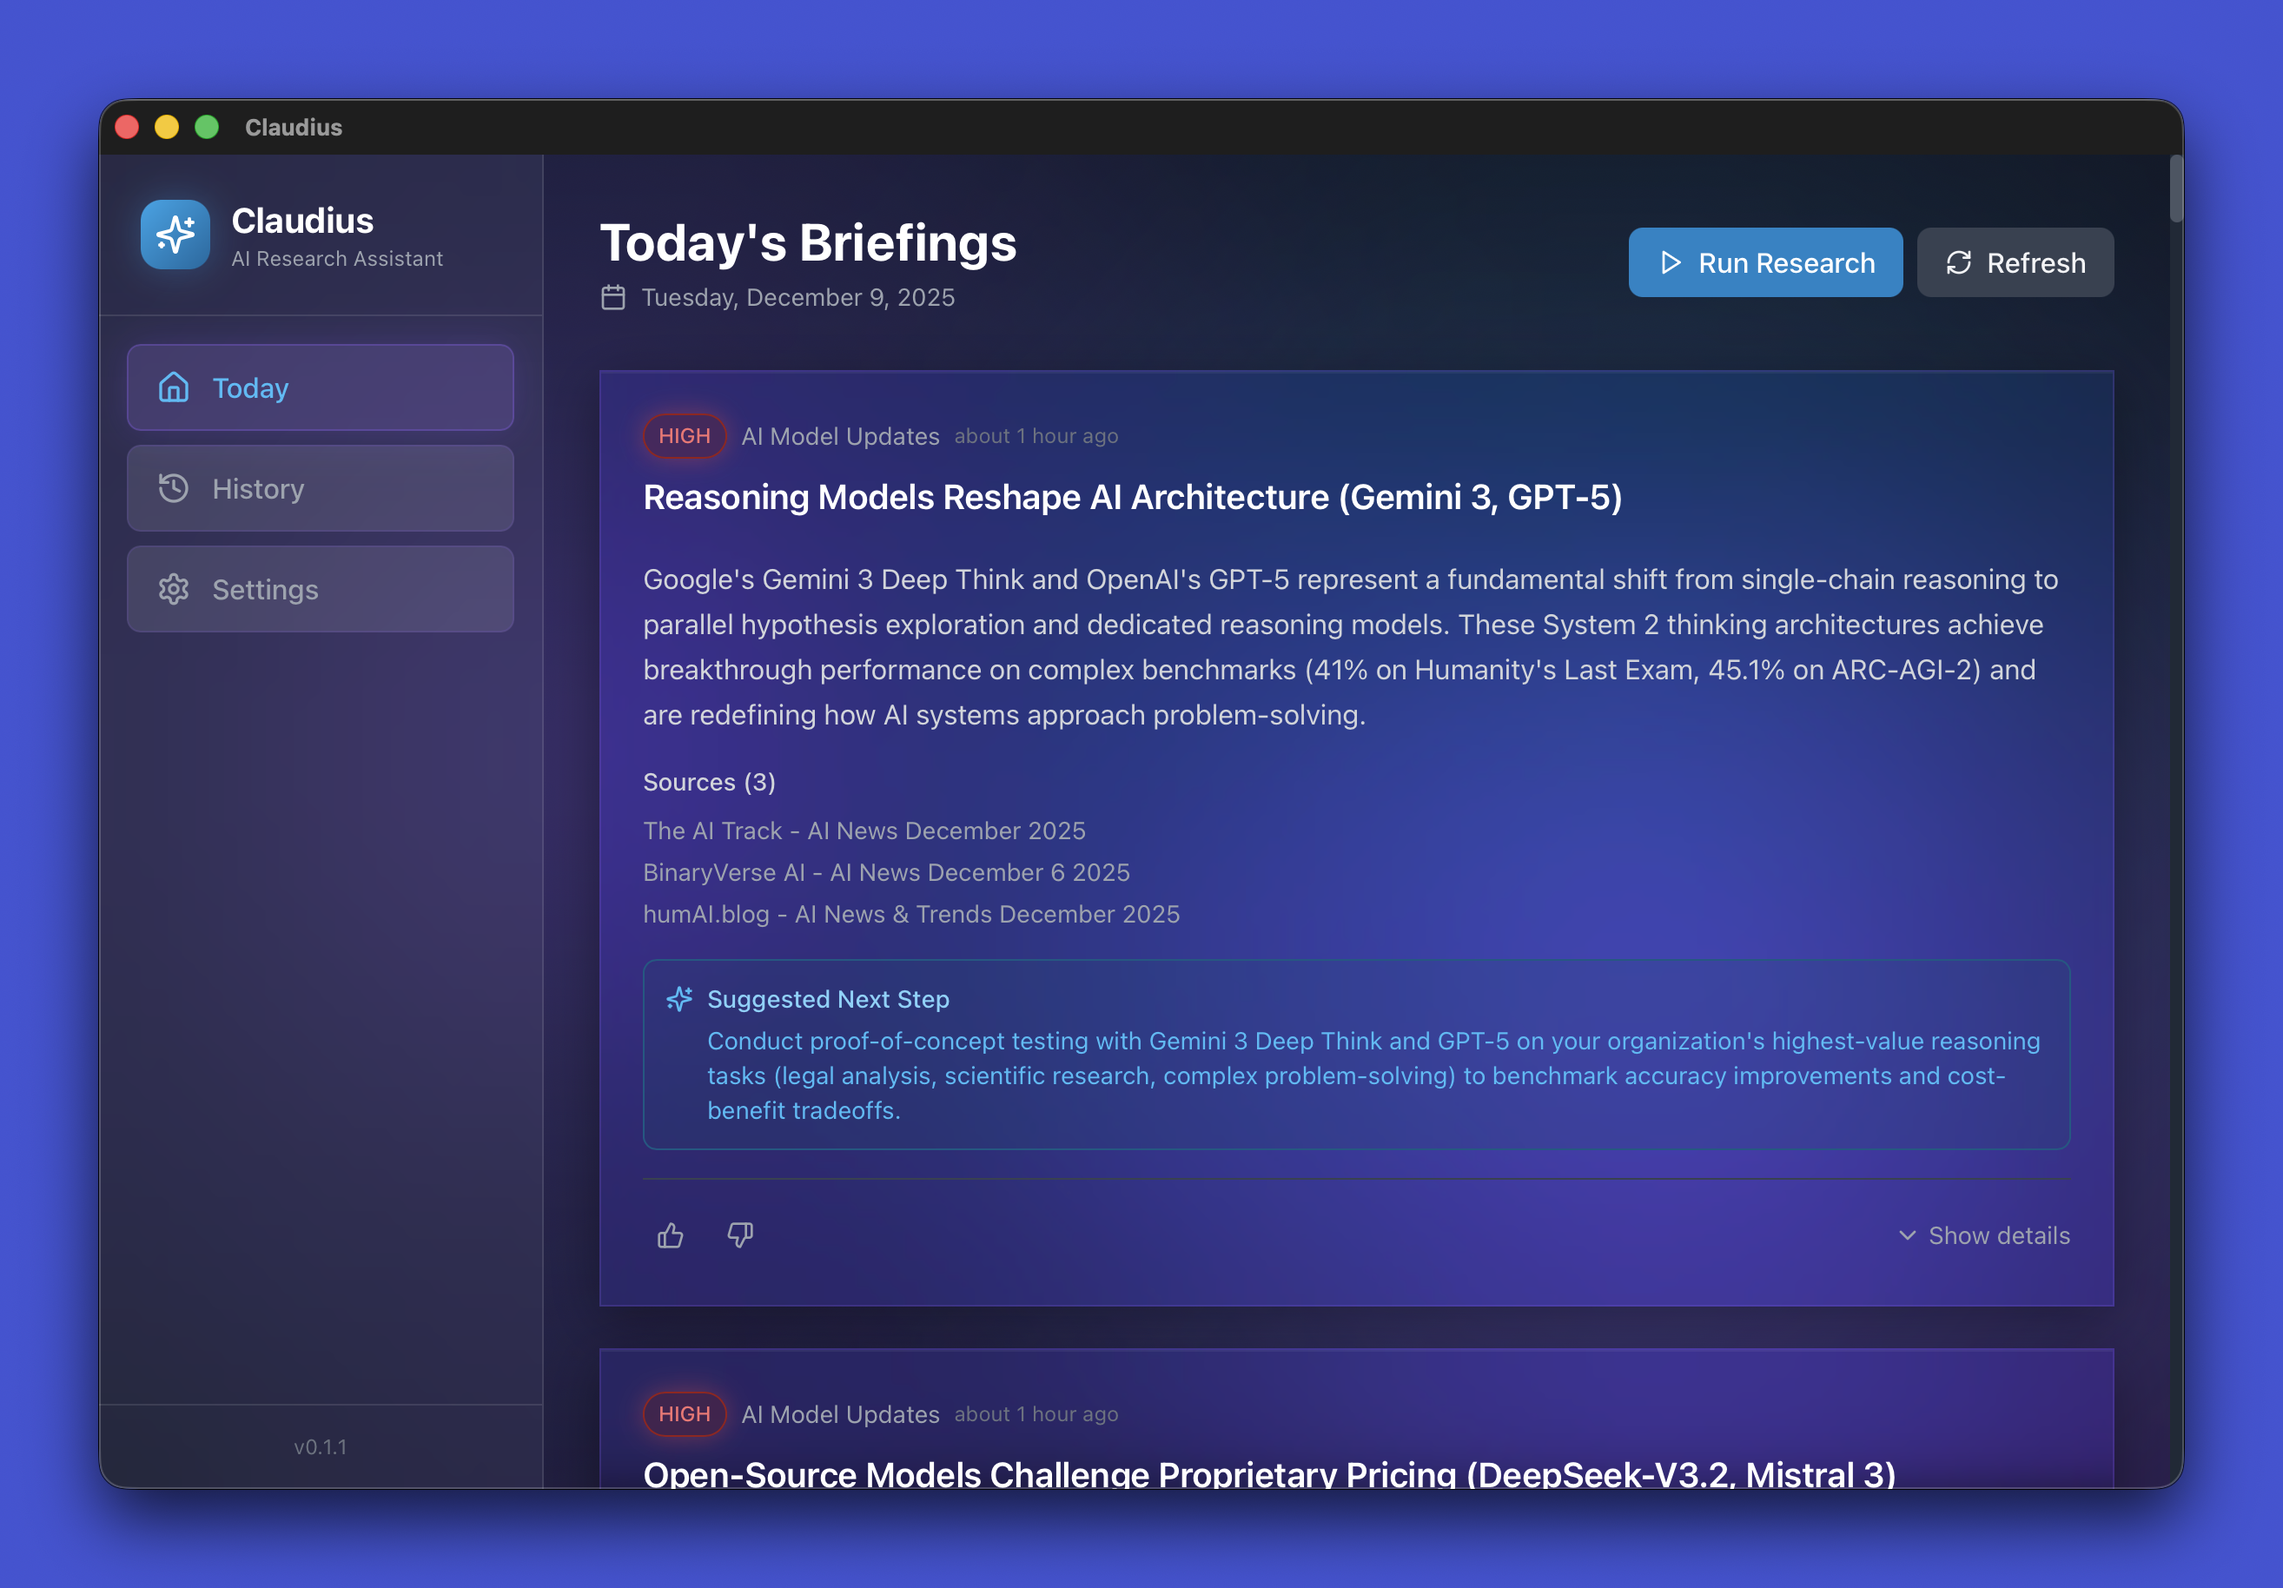
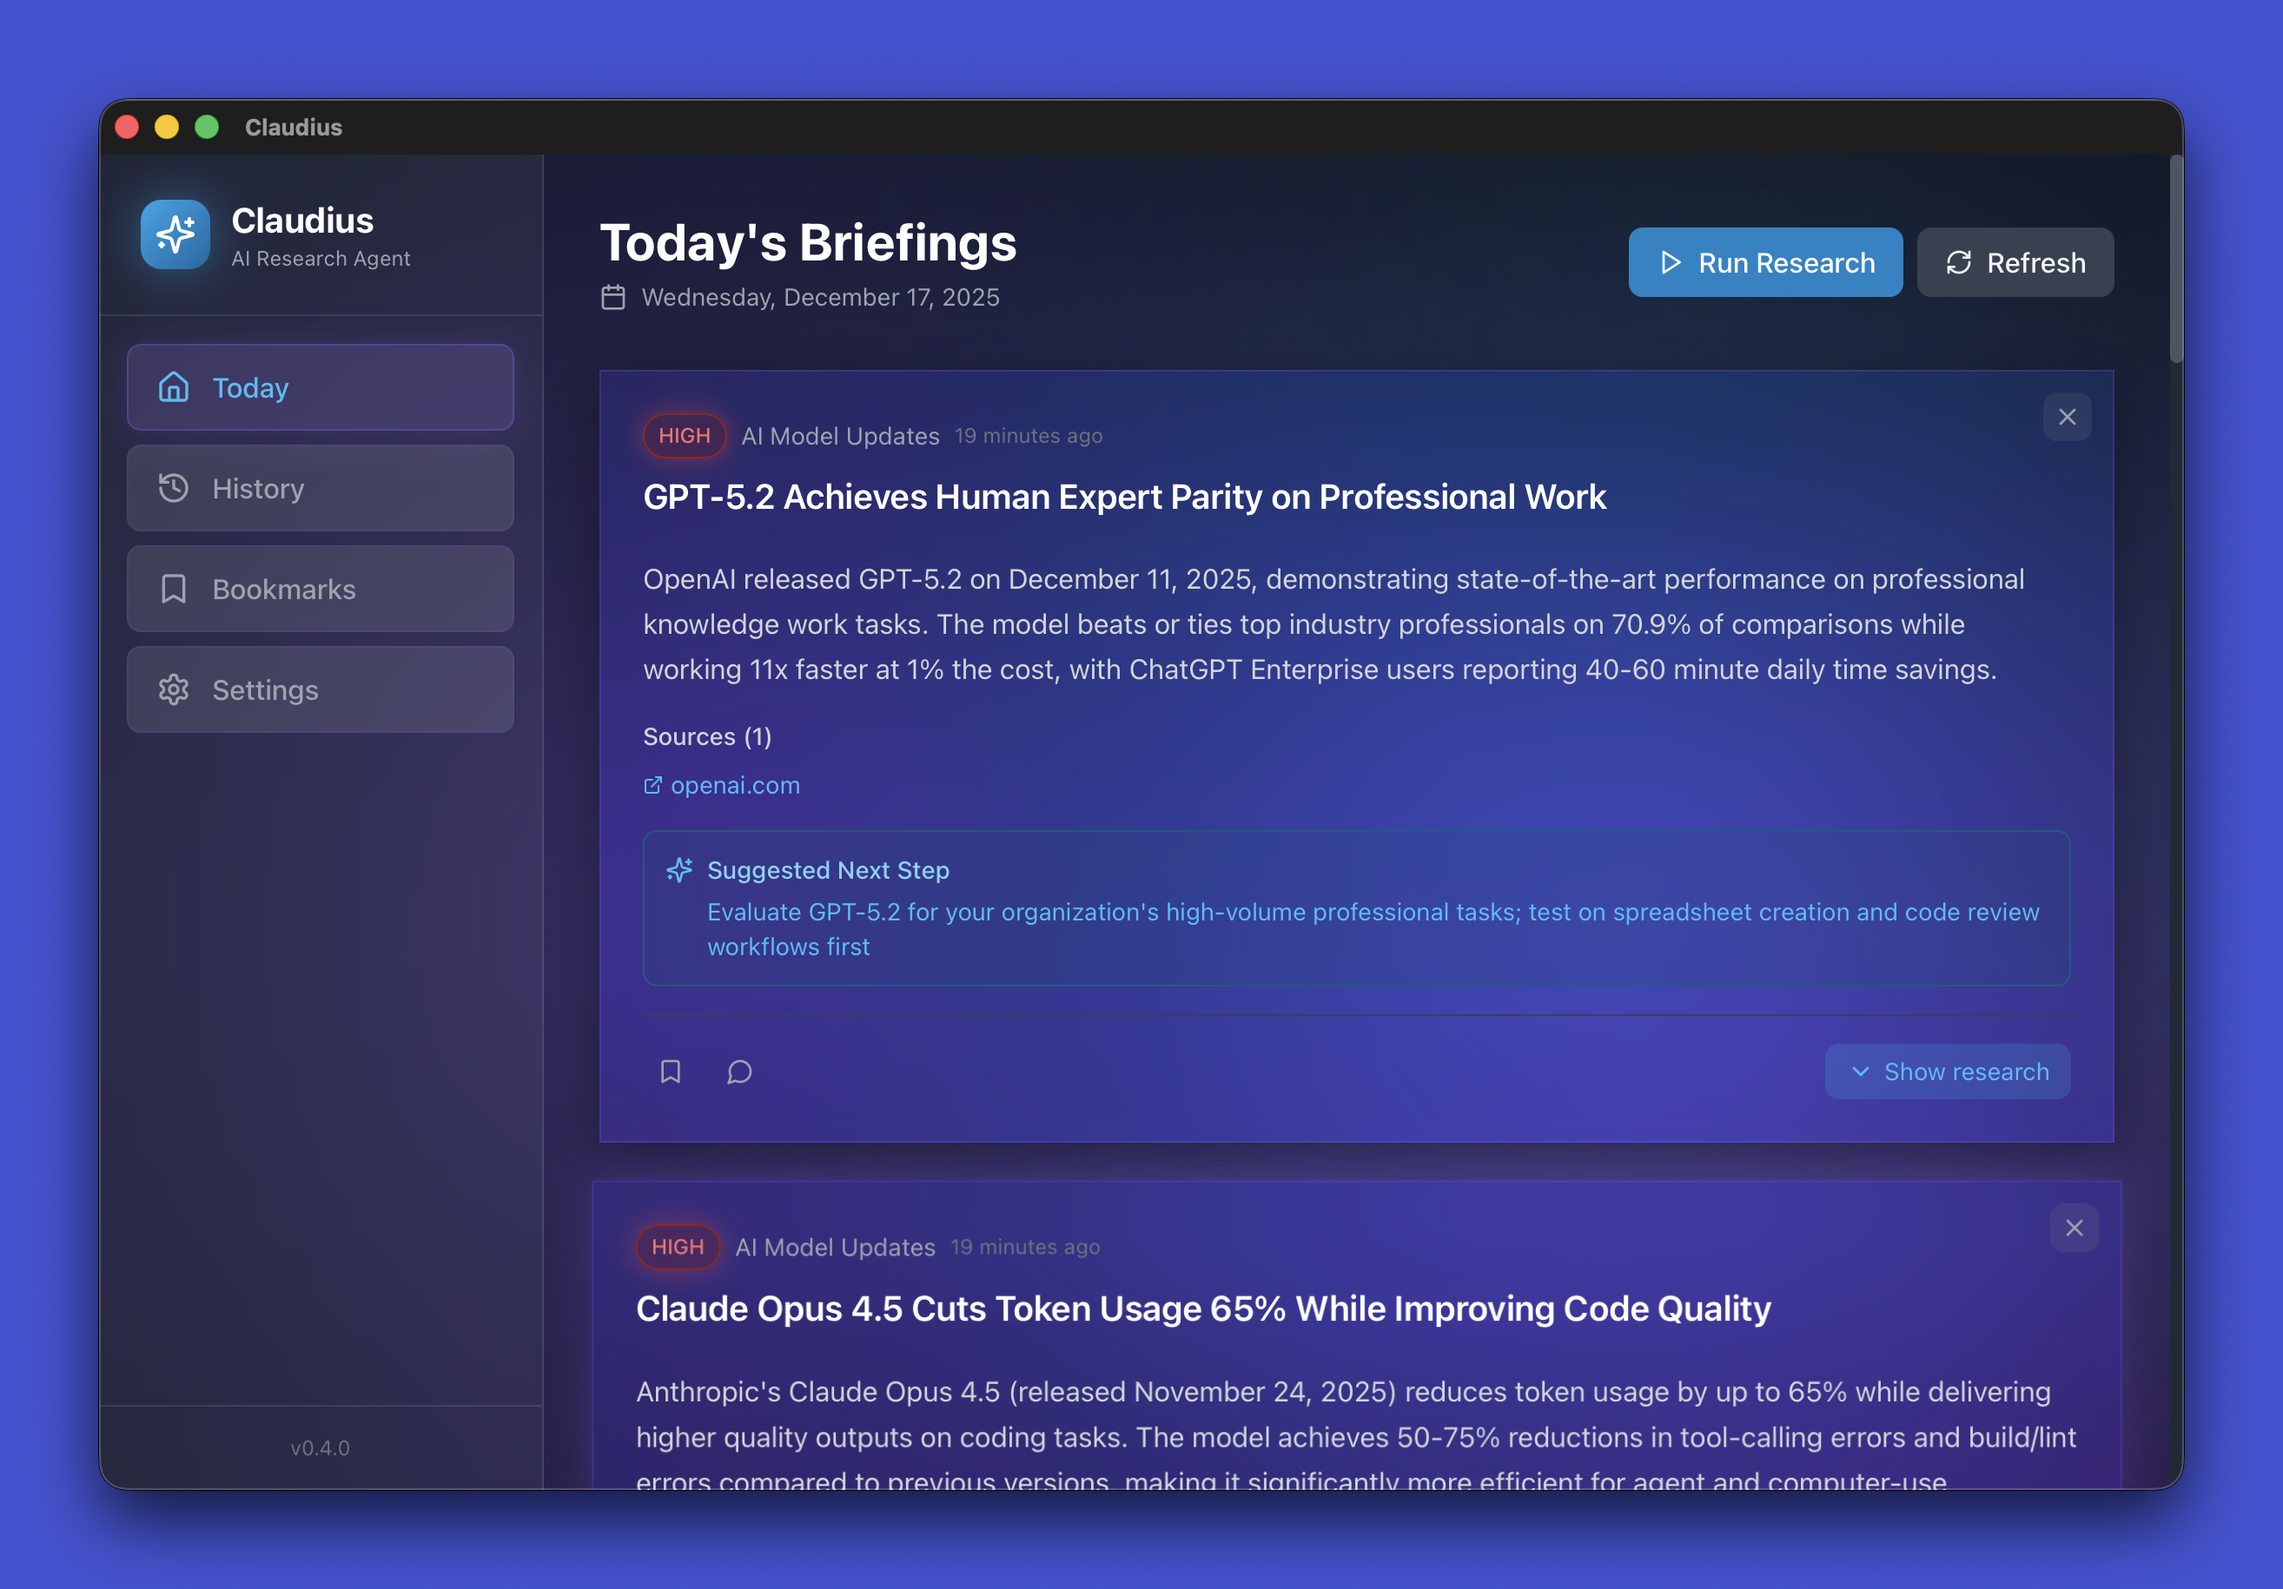
chore: Update for v0.4.0 release
- Update download URLs to v0.4.0
- Update footer version to v0.4.0
- Add new feature cards: Chat with Claude, Bookmarks, Storage Management
- Add "NEW" badge for v0.4.0 features
- Update screenshots with dark mode UI

🤖 Generated with [Claude Code](https://claude.com/claude-code)

diff --git a/src/App.tsx b/src/App.tsx
@@ -1,10 +1,10 @@
-import { Sparkles, Download, Github, Apple, Monitor, Cpu, Bell, Search, Terminal, ExternalLink, RefreshCw } from 'lucide-react';
+import { Sparkles, Download, Github, Apple, Monitor, Cpu, Bell, Search, Terminal, ExternalLink, RefreshCw, MessageCircle, Bookmark, Trash2 } from 'lucide-react';
 
 const GITHUB_REPO = 'https://github.com/chrisvanbuskirk/claudius';
 const RELEASE_URL = 'https://github.com/chrisvanbuskirk/claudius/releases/latest';
-const MAC_DMG_URL = 'https://github.com/chrisvanbuskirk/claudius/releases/latest/download/Claudius_0.3.2_aarch64.dmg';
-const WINDOWS_URL = 'https://github.com/chrisvanbuskirk/claudius/releases/latest/download/Claudius_0.3.2_x64-setup.exe';
-const LINUX_URL = 'https://github.com/chrisvanbuskirk/claudius/releases/latest/download/Claudius_0.3.2_amd64.AppImage';
+const MAC_DMG_URL = 'https://github.com/chrisvanbuskirk/claudius/releases/latest/download/Claudius_0.4.0_aarch64.dmg';
+const WINDOWS_URL = 'https://github.com/chrisvanbuskirk/claudius/releases/latest/download/Claudius_0.4.0_x64-setup.exe';
+const LINUX_URL = 'https://github.com/chrisvanbuskirk/claudius/releases/latest/download/Claudius_0.4.0_amd64.AppImage';
 
 function App() {
   return (
@@ -132,6 +132,24 @@ function App() {
           </div>
 
           <div className="grid md:grid-cols-2 lg:grid-cols-3 gap-6">
+            <FeatureCard
+              icon={<MessageCircle className="w-6 h-6" />}
+              title="Chat with Claude"
+              description="Ask follow-up questions on any briefing card. Claude uses web search and tools to give you deeper insights."
+              isNew
+            />
+            <FeatureCard
+              icon={<Bookmark className="w-6 h-6" />}
+              title="Bookmarks"
+              description="Save important briefings for later. Bookmarked cards are protected from automatic cleanup."
+              isNew
+            />
+            <FeatureCard
+              icon={<Trash2 className="w-6 h-6" />}
+              title="Storage Management"
+              description="Configure retention periods and automatic cleanup. Keep your database tidy without losing what matters."
+              isNew
+            />
             <FeatureCard
               icon={<Search className="w-6 h-6" />}
               title="Real-Time Web Search"
@@ -264,7 +282,7 @@ function App() {
             <div className="w-8 h-8 bg-gradient-to-br from-primary-500 to-primary-700 rounded-lg flex items-center justify-center">
               <Sparkles className="w-4 h-4 text-white" />
             </div>
-            <span className="text-gray-400">Claudius v0.3.2</span>
+            <span className="text-gray-400">Claudius v0.4.0</span>
           </div>
           <div className="flex items-center gap-6">
             <a
@@ -298,9 +316,14 @@ function App() {
   );
 }
 
-function FeatureCard({ icon, title, description }: { icon: React.ReactNode; title: string; description: string }) {
+function FeatureCard({ icon, title, description, isNew }: { icon: React.ReactNode; title: string; description: string; isNew?: boolean }) {
   return (
-    <div className="glass-card glass-card-hover rounded-xl p-6 transition-all duration-300">
+    <div className="glass-card glass-card-hover rounded-xl p-6 transition-all duration-300 relative">
+      {isNew && (
+        <span className="absolute top-4 right-4 px-2 py-0.5 text-xs font-semibold bg-green-500/20 text-green-400 rounded-full border border-green-500/30">
+          NEW
+        </span>
+      )}
       <div className="w-12 h-12 bg-primary-500/10 rounded-xl flex items-center justify-center text-primary-400 mb-4">
         {icon}
       </div>
